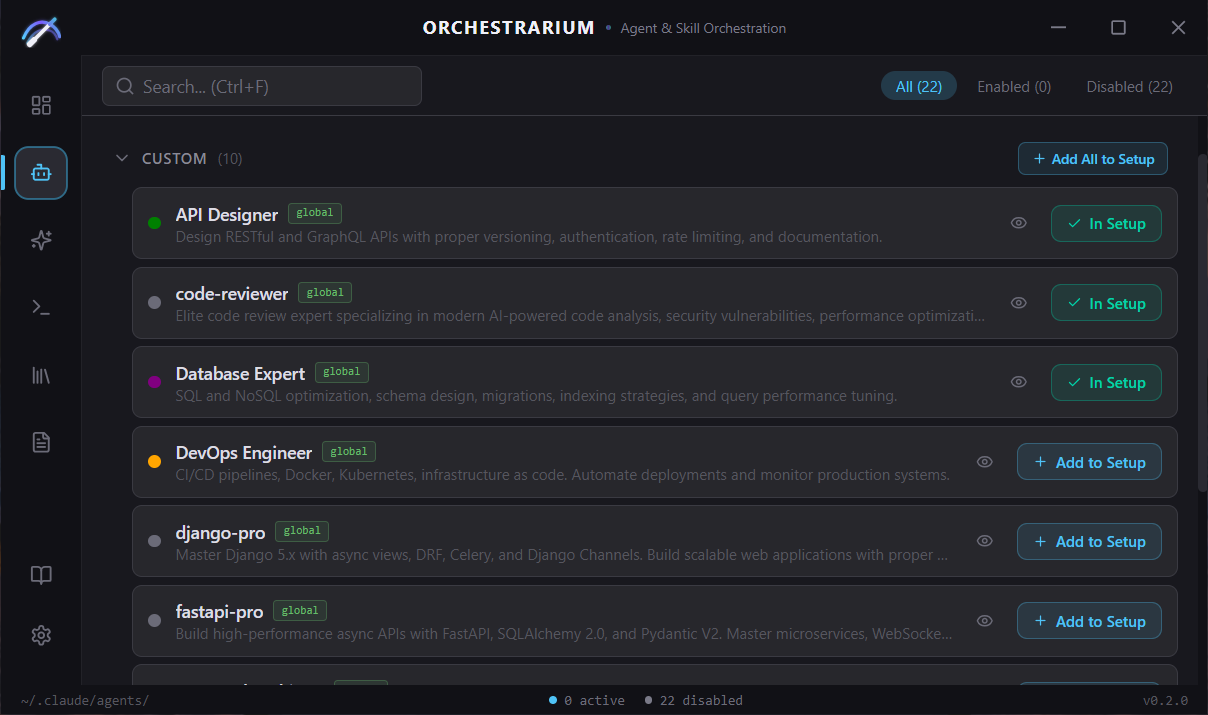
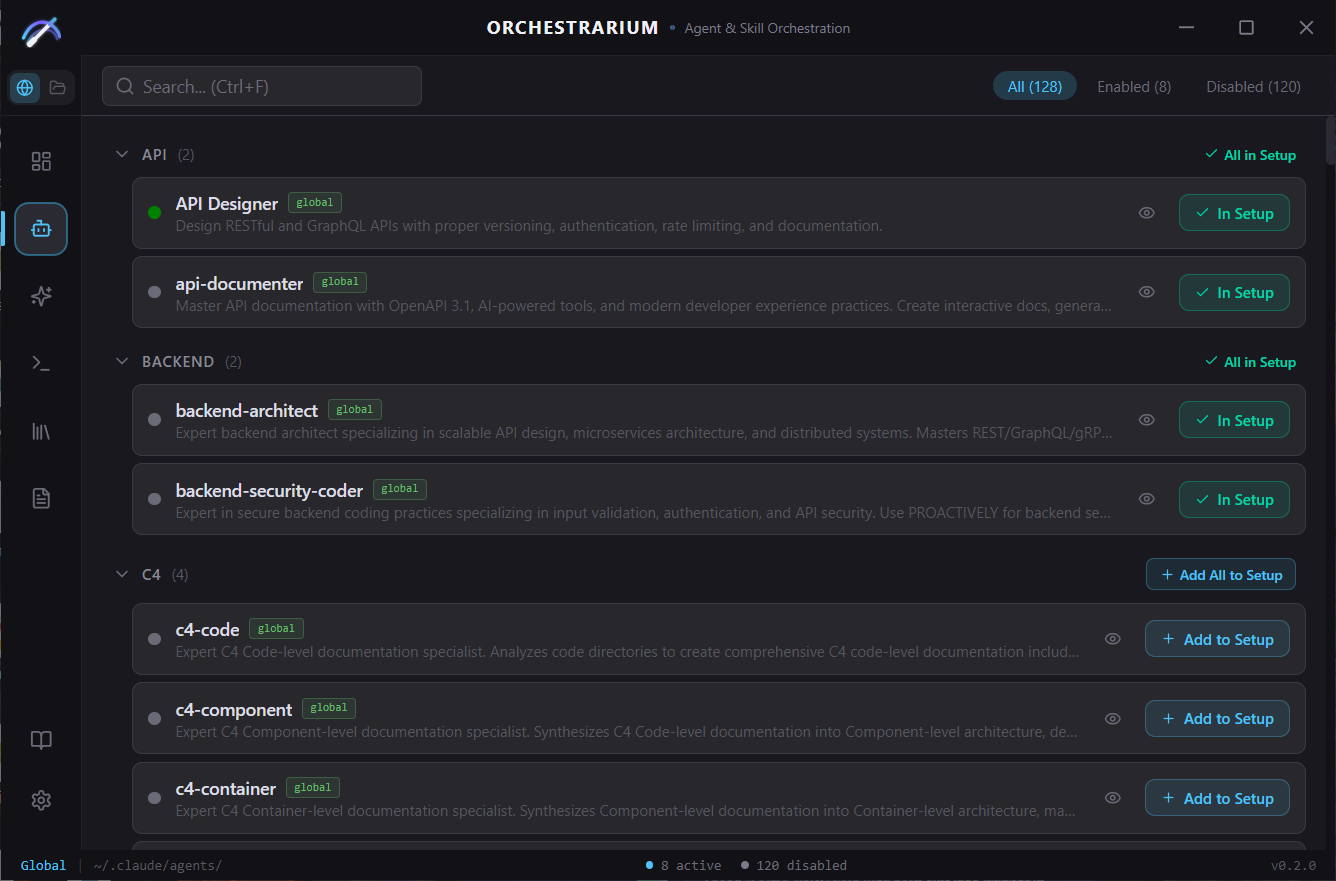
docs: comprehensive README rewrite, updated screenshots, tutorial v2
- README: detailed feature descriptions, scanning paths, project context guide, table of contents
- Tutorial: added Project Context page (8 pages total), Update button, exclusive activation, fixed Settings
- Screenshots: updated 7 images (setup, agents, skills, commands, library, claude-md, tutorial)

diff --git a/src/components/TutorialModal.tsx b/src/components/TutorialModal.tsx
@@ -24,6 +24,10 @@ import {
   Eye,
   Search,
   Info,
+  Globe,
+  FolderOpen,
+  RefreshCw,
+  Copy,
 } from "lucide-react";
 import { useEscapeKey } from "../lib/useEscapeKey";
 
@@ -105,8 +109,16 @@ const pages: Page[] = [
           </p>
         </div>
         <p className="text-[13px] leading-relaxed text-[#b0b0b8]">
+          Orchestrarium supports both{" "}
+          <span className="font-semibold text-[#4fc3f7]">global</span>{" "}
+          <span className="text-[#56565f]">(~/.claude)</span> and{" "}
+          <span className="font-semibold text-[#ffa726]">project-level</span>{" "}
+          <span className="text-[#56565f]">(.claude/)</span> configurations.
+          Switch between them using the context switcher at the top of the sidebar.
+        </p>
+        <p className="text-[13px] leading-relaxed text-[#b0b0b8]">
           The app has <span className="font-semibold text-[#e8e8ec]">six sections</span>,
-          accessible from the sidebar on the left:
+          accessible from the sidebar:
         </p>
         <div className="grid grid-cols-2 gap-2">
           <IconBox icon={LayoutDashboard} color="#4fc3f7" label="Setup" />
@@ -321,14 +333,25 @@ const pages: Page[] = [
               </>
             }
           />
+          <StepRow
+            step={6}
+            text={
+              <>
+                <span className="inline-flex items-center gap-1 font-semibold text-[#4fc3f7]">
+                  <RefreshCw className="inline h-3 w-3" /> Update
+                </span>{" "}
+                — appears when you modify an active setup (toggle, add, or remove
+                items). Click it to save changes back to the Library.
+              </>
+            }
+          />
         </div>
         <div className="rounded-lg border border-[#3a3a42] bg-[#1e1e23] px-4 py-3">
           <p className="text-[13px] text-[#b0b0b8]">
             <span className="font-semibold text-[#c0c0c8]">Active setup:</span>{" "}
             When you activate a setup from the Library, its name appears under
-            the header. If you make any changes (toggle items, add or remove),
-            an <span className="font-semibold text-[#4fc3f7]">Update</span> button
-            appears — click it to save the changes back to that setup.
+            the header. Any changes you make are tracked — use the Update button
+            to save them.
           </p>
         </div>
         <div className="rounded-lg border border-[#ffa726]/20 bg-[#ffa726]/5 px-4 py-3">
@@ -388,8 +411,10 @@ const pages: Page[] = [
                 <span className="inline-flex items-center gap-1 font-semibold text-[#4fc3f7]">
                   <Play className="inline h-3 w-3" /> Activate
                 </span>{" "}
-                to apply a setup — it enables/disables items on disk to match.
-                The setup name will appear in the Setup section header.
+                to apply a setup. This is{" "}
+                <span className="font-semibold text-[#e8e8ec]">exclusive</span>
+                : it enables only items in that setup and disables everything
+                else. The setup name appears in the Setup header.
               </>
             }
           />
@@ -499,6 +524,88 @@ const pages: Page[] = [
     ),
   },
   {
+    title: "Project Context",
+    content: (
+      <div className="flex flex-col gap-5">
+        <p className="text-[13px] leading-relaxed text-[#b0b0b8]">
+          Orchestrarium works with two contexts — items can live in{" "}
+          <span className="font-semibold text-[#4fc3f7]">global</span>{" "}
+          <span className="text-[#56565f]">(~/.claude/)</span> or{" "}
+          <span className="font-semibold text-[#ffa726]">project</span>{" "}
+          <span className="text-[#56565f]">({"{project}"}/.claude/)</span>{" "}
+          directories. Switch between them using the context toggle at the top of
+          the sidebar.
+        </p>
+        <div className="flex flex-col gap-3">
+          <div className="flex items-center gap-3 rounded-lg border border-[#3a3a42] bg-[#1e1e23] px-4 py-3">
+            <span className="flex h-7 w-7 items-center justify-center rounded-lg bg-[#4fc3f7]/15">
+              <Globe className="h-3.5 w-3.5 text-[#4fc3f7]" />
+            </span>
+            <div>
+              <span className="text-sm font-semibold text-[#e8e8ec]">Global</span>
+              <p className="text-[12px] text-[#8a8a96]">
+                Items in <Kbd>~/.claude/</Kbd> — available in every project
+              </p>
+            </div>
+          </div>
+          <div className="flex items-center gap-3 rounded-lg border border-[#3a3a42] bg-[#1e1e23] px-4 py-3">
+            <span className="flex h-7 w-7 items-center justify-center rounded-lg bg-[#ffa726]/15">
+              <FolderOpen className="h-3.5 w-3.5 text-[#ffa726]" />
+            </span>
+            <div>
+              <span className="text-sm font-semibold text-[#e8e8ec]">Project</span>
+              <p className="text-[12px] text-[#8a8a96]">
+                Items in your project's <Kbd>.claude/</Kbd> folder — scoped to that project
+              </p>
+            </div>
+          </div>
+        </div>
+        <div className="flex flex-col gap-3">
+          <StepRow
+            step={1}
+            text={
+              <>
+                Click the{" "}
+                <FolderOpen className="mb-0.5 inline h-3.5 w-3.5 text-[#ffa726]" />{" "}
+                button in the sidebar to select a project folder.
+              </>
+            }
+          />
+          <StepRow
+            step={2}
+            text={
+              <>
+                Items show a{" "}
+                <span className="font-semibold text-[#e8e8ec]">scope badge</span>{" "}
+                — <Kbd>global</Kbd> or <Kbd>project</Kbd> — so you always know
+                where they live.
+              </>
+            }
+          />
+          <StepRow
+            step={3}
+            text={
+              <>
+                In project context, global items can be{" "}
+                <span className="inline-flex items-center gap-1 font-semibold text-[#4fc3f7]">
+                  <Copy className="inline h-3 w-3" /> copied to project
+                </span>{" "}
+                — a local copy is created in the project directory.
+              </>
+            }
+          />
+        </div>
+        <div className="rounded-lg border border-[#66bb6a]/20 bg-[#66bb6a]/5 px-4 py-3">
+          <p className="text-[13px] text-[#66bb6a]">
+            <span className="font-semibold">Tip:</span> Each context has its own
+            Setup and Library entries. Switching context instantly shows items
+            from that directory.
+          </p>
+        </div>
+      </div>
+    ),
+  },
+  {
     title: "Typical Workflow",
     content: (
       <div className="flex flex-col gap-5">
@@ -585,8 +692,7 @@ const pages: Page[] = [
           <p className="text-[13px] text-[#b0b0b8]">
             <Settings className="mb-0.5 inline h-3 w-3 text-[#56565f]" />{" "}
             <span className="font-semibold text-[#c0c0c8]">Settings</span>{" "}
-            — enable Advanced Features (CLAUDE.md profiles) and optionally
-            skip group notifications for experienced users.
+            — skip group notifications for experienced users.
           </p>
         </div>
       </div>

diff --git a/README.md b/README.md
@@ -24,17 +24,142 @@ A visual desktop app to browse, organize, and toggle Claude Code agents, skills,
 
 Claude Code stores agents, skills, and commands as `.md` files in `~/.claude/`. Disabling an item means moving it into a `.disabled/` subfolder. Enabling it means moving it back.
 
-Orchestrarium gives you a clean UI to do this with a single click — plus saved setups, CLAUDE.md profile switching, and more.
+Orchestrarium gives you a clean UI to do this with a single click — plus saved setups, CLAUDE.md profile switching, project-level management, and more.
 
-## Features
+---
 
-- **Setup** — your active configuration at a glance. Toggle items on/off, see summary cards with counts and progress bars.
-- **Agents / Skills / Commands** — browse everything installed, search, filter, add to setup individually or by group.
-- **Library** — save and name your setups. Activate a setup to exclusively enable only its items (everything else is disabled). Export/import as JSON.
-- **CLAUDE.md** — manage multiple instruction profiles. Create, edit, activate, deactivate — switch Claude's behavior in one click.
-- **Project context** — switch between global `~/.claude/` and project-level `.claude/` directories. Manage project-specific agents alongside global ones.
-- **Tutorial** — built-in 7-page walkthrough covering every section.
-- **File watcher** — detects external changes to your `.claude/` directory and refreshes automatically.
+## Table of Contents
+
+- [Where do agents, skills, and commands come from?](#where-do-agents-skills-and-commands-come-from)
+- [Features in detail](#features-in-detail)
+  - [Setup](#setup)
+  - [Agents / Skills / Commands](#agents--skills--commands)
+  - [Library](#library)
+  - [CLAUDE.md Profiles](#claudemd-profiles)
+  - [Project Context](#project-context)
+  - [Settings](#settings)
+- [Screenshots](#screenshots)
+- [Installation](#installation)
+- [How it works](#how-it-works)
+- [Tech Stack](#tech-stack)
+- [The Story](#the-story)
+- [Roadmap](#roadmap)
+
+---
+
+## Where do agents, skills, and commands come from?
+
+Orchestrarium **does not install or create** agents, skills, or commands — it manages what's already on your system. These `.md` files are created by Claude Code itself or by community tools and extensions.
+
+When you first use Claude Code, it automatically populates `~/.claude/` with built-in agents, skills, and slash commands. If you install community agents or create your own, they go into the same folders.
+
+### What Orchestrarium scans
+
+| Context | Agents | Skills | Commands |
+|---------|--------|--------|----------|
+| **Global** | `~/.claude/agents/*.md` | `~/.claude/skills/*.md` | `~/.claude/commands/*.md` |
+| **Project** | `{project}/.claude/agents/*.md` | `{project}/.claude/skills/*.md` | `{project}/.claude/commands/*.md` |
+
+Disabled items are stored in a `.disabled/` subfolder inside each directory (e.g. `~/.claude/agents/.disabled/`).
+
+### What is NOT scanned
+
+- **Subfolders** — only top-level `.md` files are detected. Nested directories like `commands/gsd/*.md` are not scanned yet (subfolder support is on the [roadmap](#roadmap)).
+- **Non-`.md` files** — `.txt`, `.json`, and other formats are ignored.
+- **Other directories** — only `agents/`, `skills/`, and `commands/` are scanned. Files in the root of `~/.claude/` (like `CLAUDE.md`) are managed separately through the [CLAUDE.md Profiles](#claudemd-profiles) section.
+
+### If your folders are empty
+
+If you just installed Claude Code and see nothing in Orchestrarium — that's normal. You need to run Claude Code at least once so it can create its configuration directories and populate them with built-in items. You can also manually place `.md` files into the folders listed above, and Orchestrarium will pick them up instantly thanks to the built-in file watcher.
+
+---
+
+## Features in detail
+
+### Setup
+
+The Setup page is your control center — it shows all items you've added and lets you manage them.
+
+- **Summary cards** at the top display active counts for Agents, Skills, and Commands. Click a card to filter the list by that category; click again to show all.
+- **Toggle switches** enable or disable items. This moves the `.md` file on disk in real time — Claude Code picks up changes instantly, no restart needed.
+- **Group toggles** let you enable/disable all items in a group at once. Groups are collapsible.
+- **Remove button** (trash icon) removes an item from your Setup and disables it if it was on. You can also remove entire groups.
+- **Save Setup** — saves a snapshot of your current configuration (which items are in the setup and their on/off state) to the Library. Give it a name to find it later.
+- **Update button** — appears when you modify an active setup (toggle items, add or remove). Click it to save the changes back to that setup in the Library.
+- **Clear Setup** — removes all items at once and disables everything on disk. Your saved setups in the Library are not affected.
+- **Active setup indicator** — when you activate a setup from the Library, its name appears under the header so you always know which configuration is loaded.
+- **Group warnings** — when you disable an item that belongs to a named group with multiple items, a warning appears. You can dismiss it or turn off warnings entirely in Settings.
+- **First launch** — Orchestrarium automatically detects all agents, skills, and commands that are already active on your system and adds them to Setup. You don't need to configure anything.
+
+### Agents / Skills / Commands
+
+These three sections share the same layout. Each one lists all items of that type found on your system.
+
+- **Search bar** — filter items by name or description in real time.
+- **Filter pills** — show All, Enabled, or Disabled items. Each pill shows a count.
+- **Grouped layout** — items are organized by group name. Named groups appear first with a collapsible header; ungrouped items appear under "Custom".
+- **Item cards** show:
+  - Item name and description (parsed from the `.md` frontmatter)
+  - **Scope badge** — `global` or `project`, so you always know where the file lives
+  - **Preview button** (eye icon) — view the full `.md` file content in a read-only modal
+  - **Add to Setup** button — includes this item in your Setup
+  - **In Setup** badge — shown if the item is already in your Setup
+- **Group-level actions** — "Add All to Setup" adds every item in a group at once. If all items are already added, an "All in Setup" badge is shown.
+- **Group warning** — when adding a single item from a multi-item group, you're asked whether to add just that item or the entire group.
+
+### Library
+
+The Library stores all your saved setups. Switch between configurations instantly.
+
+- **Save** — from the Setup page, click "Save Setup", give it a name, and it's stored in the Library.
+- **Activate** — applies a saved setup. This is **exclusive**: it enables only items in that setup and **disables everything else**. The setup name then appears in the Setup page header.
+- **Update** — if you modify an active setup (toggle, add, or remove items), an Update button appears on the Setup page to save changes back.
+- **Export** — saves a setup as a `.json` file you can share with others or back up.
+- **Import** — loads a setup from a `.json` file. If a setup with the same name already exists, you're prompted to replace it. If the imported setup was created in a different context (global vs project), a warning is shown.
+- **Delete** — removes a setup from the Library with a confirmation step.
+- **Search** — find setups by name.
+- **Setup cards** show the name, creation date, number of enabled items, and a breakdown by type (agents/skills/commands).
+
+Setups are stored in `~/.claude/orchestrarium/setups.json`.
+
+### CLAUDE.md Profiles
+
+`CLAUDE.md` is a configuration file that defines how Claude Code behaves — its rules, style, and instructions. Orchestrarium lets you manage multiple profiles and switch between them.
+
+- **Auto-import** — if you already have a `~/.claude/CLAUDE.md` file, Orchestrarium automatically imports it as a "Default" profile on first launch.
+- **New Profile** — create a profile from scratch (empty) or copy from your current CLAUDE.md.
+- **Activate** — writes the profile content into `~/.claude/CLAUDE.md`. Claude Code reads it immediately.
+- **Deactivate** — clears the CLAUDE.md file. The profile stays saved for later.
+- **Preview** — view profile content in a read-only modal.
+- **Edit** — built-in editor to modify profile content directly in the app. Tracks unsaved changes.
+- **Delete** — removes a profile. If it was active, CLAUDE.md is also cleared.
+
+Profiles are stored in `~/.claude/orchestrarium/claude-profiles/`.
+
+### Project Context
+
+Orchestrarium supports two contexts — **global** and **project-level**:
+
+- **Global** (`~/.claude/`) — agents, skills, and commands available in every project.
+- **Project** (`{project}/.claude/`) — items scoped to a specific project directory.
+
+How to use project context:
+
+1. **Open a project** — click the folder icon at the top of the sidebar and select your project directory. The context switches to "Project" automatically.
+2. **Switch contexts** — use the globe/folder toggle at the top of the sidebar. Globe = global, Folder = project.
+3. **Scope badges** — every item card shows whether it's `global` or `project`, so you always know where the file lives.
+4. **Copy to project** — when in project context, global items can be copied into the project's `.claude/` directory and added to your project Setup.
+5. **Change or clear project** — hover the project name in the sidebar to reveal a clear (X) button, or click the "Change Project" button at the bottom of the sidebar.
+
+Each context has its own independent Setup and Library entries. Switching context instantly shows items from the corresponding directory.
+
+### Settings
+
+Settings are accessible via the gear icon at the bottom of the sidebar.
+
+- **Skip Group Notifications** — disables warnings when toggling items that belong to a group. Recommended for experienced users only.
+
+---
 
 ## Screenshots
 
@@ -92,6 +217,8 @@ When disabling an item from an active group:
 ![Settings](assets/settings.png)
 </details>
 
+---
+
 ## Installation
 
 1. Download the latest installer for your platform from [Releases](../../releases):
@@ -102,6 +229,8 @@ When disabling an item from an active group:
 3. Orchestrarium will auto-detect your `~/.claude/` directory
 
 > **Note:** macOS builds are unsigned. On first launch: right-click the app → Open → Open.
+
+---
 
 ## How it works
 
@@ -114,11 +243,15 @@ When disabling an item from an active group:
 | Activate CLAUDE.md profile | Profile content copied to `~/.claude/CLAUDE.md` |
 | Deactivate profile | `~/.claude/CLAUDE.md` cleared |
 
+---
+
 ## Tech Stack
 
 - **Frontend:** React 19, TypeScript, Tailwind CSS 4, Zustand 5
 - **Backend:** Tauri 2, Rust
 - **Testing:** Vitest (46 tests), Cargo test (42 tests)
+
+---
 
 ## The Story
 
@@ -129,6 +262,8 @@ I wanted to see my agents, skills, and commands laid out visually — what's ena
 I want you to know: **I don't speak English natively and I don't know how to code.** I built this entirely by talking to Claude Code — setting tasks, structuring conversations, and iterating until I got what I wanted. I think I did a decent job considering my limitations.
 
 Thank you for reading this far — for me, that's already a small victory and motivation to keep going.
+
+---
 
 ## Roadmap
 
@@ -141,8 +276,8 @@ Thank you for reading this far — for me, that's already a small victory and mo
 
 Have an idea? [Open an issue](../../issues) — feedback and contributions are welcome.
 
+---
+
 ## License
 
 MIT
-
-</div>
